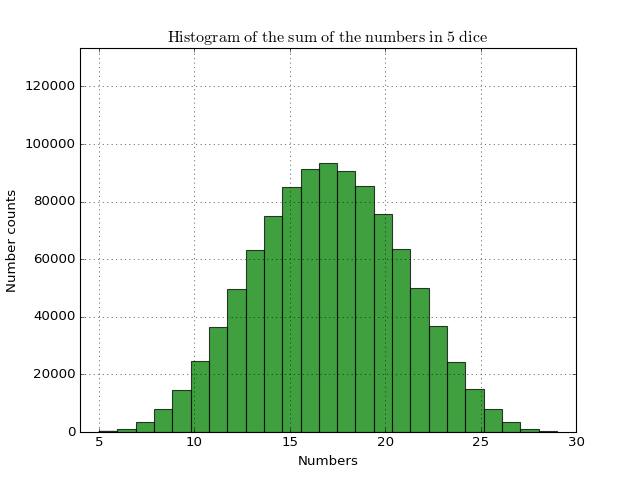
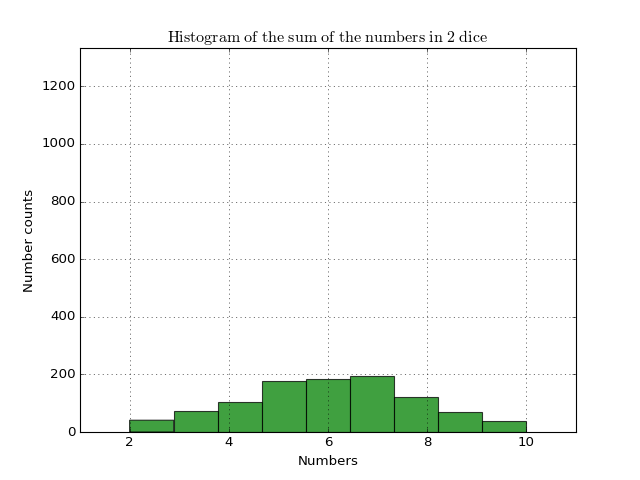
Arquivo upload

diff --git a/statistics/histograms-and-dices.py b/statistics/histograms-and-dices.py
@@ -94,7 +94,7 @@ m, bins, patches = plt.hist(Sum_vector, HistMax - HistMin + 1, normed=0, facecol
 plt.xlabel('Numbers')
 plt.ylabel('Number counts')
 plt.title(r'$\mathrm{Histogram\ of\ the\ sum\ of\ the\ numbers\ in\ %d\ dice }\ $' % N)
-plt.axis([HistMin-1, HistMax + 1, 0, M/7.5])
+plt.axis([HistMin-1, HistMax + 1, 0, 10*M/7.5])
 plt.grid(True)
 
 #plt.show()
